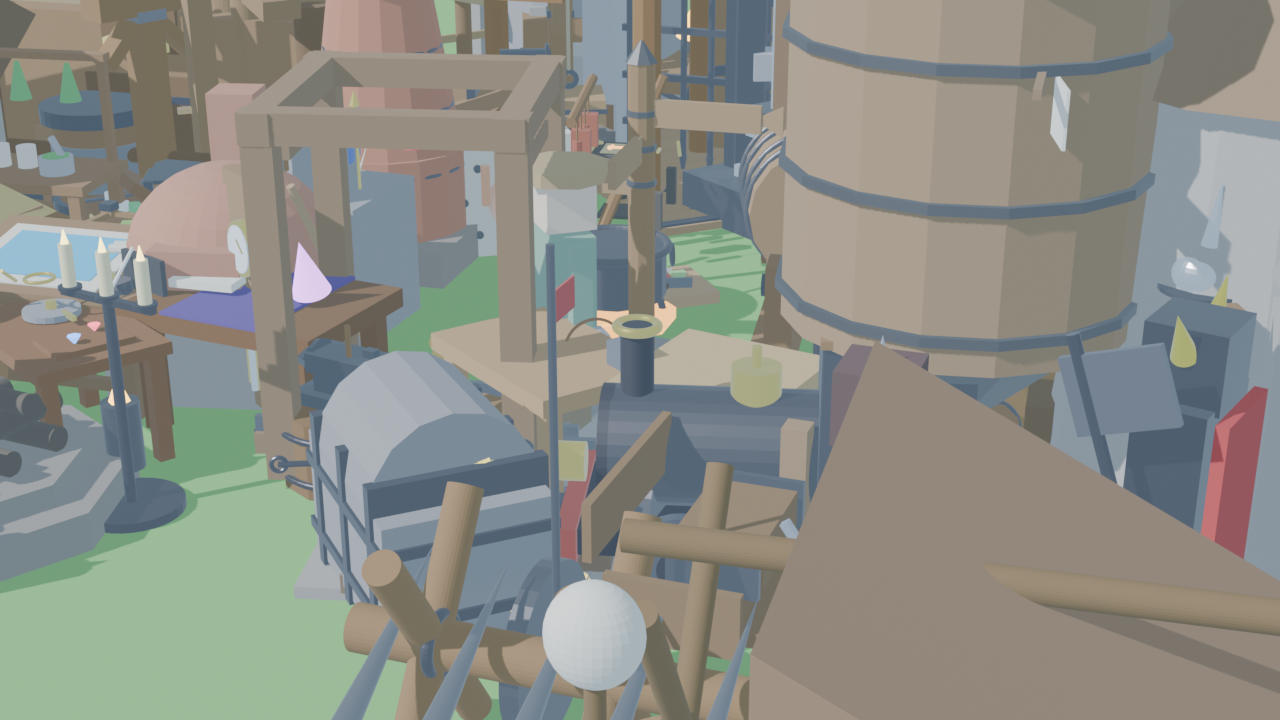
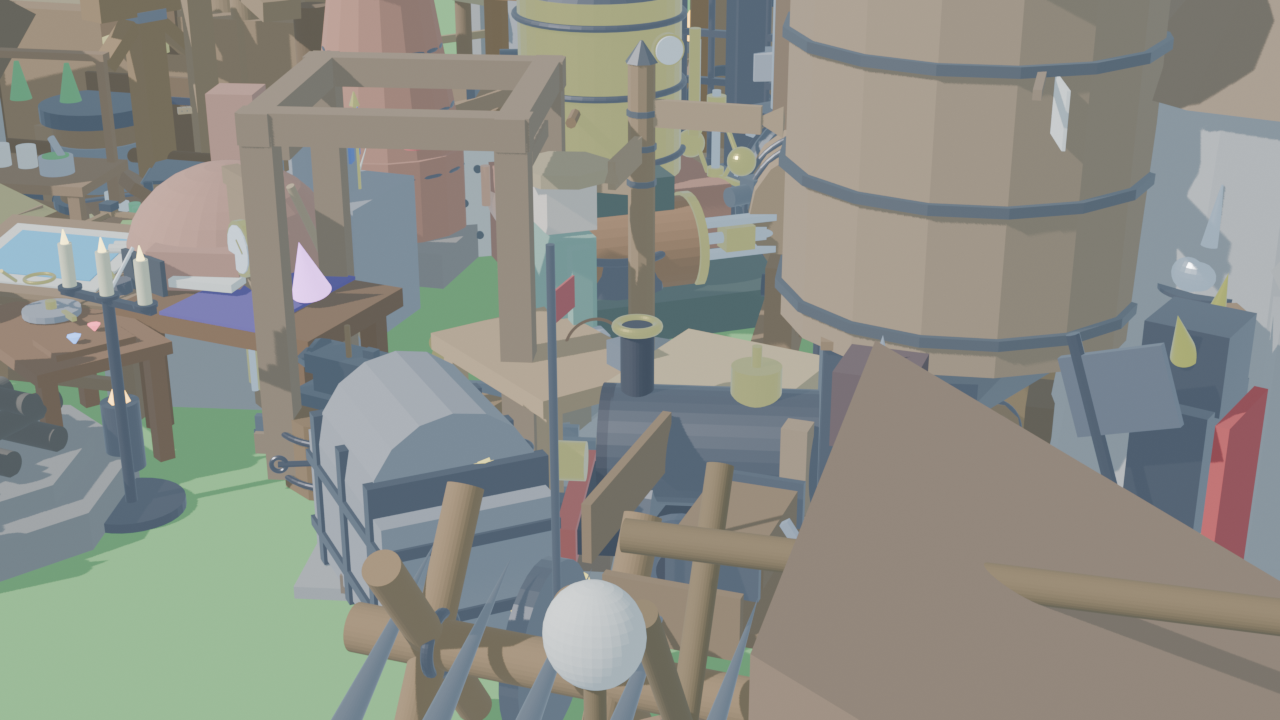
test(mechanisms): add unit tests, update 109-asset diorama, and document Milestone 39 (#37)

Changed region(s): [[0.375, 0.0, 0.625, 0.4889], [0.375, 0.3056, 0.4062, 0.3667]]

diff --git a/tests/test_engine_vertical_slice.py b/tests/test_engine_vertical_slice.py
@@ -4080,8 +4080,98 @@ class TestEngineVerticalSlice(unittest.TestCase):
         accepted_wine = min(wine_barrels, free_slots)
         self.assertEqual(accepted_wine, 20)
 
+    def test_milestone39_glb_assets(self):
+        """Verify binary glTF headers and integrity for Milestone 39 3D models."""
+        models_dir = os.path.join(os.path.dirname(__file__), "..", "assets", "models")
+        m39_models = ["steam_boiler.glb", "steam_engine_drive.glb", "centrifugal_governor.glb"]
+        for m in m39_models:
+            p = os.path.join(models_dir, m)
+            self.assertTrue(os.path.exists(p), f"Missing model {m}")
+            self.assertGreater(os.path.getsize(p), 1000, f"Model {m} is unusually small")
+            with open(p, "rb") as f:
+                header = f.read(4)
+                self.assertEqual(header, b"glTF", f"Model {m} does not have valid glTF magic header")
+
+    def test_steam_boiler_thermodynamics_and_popoff_relief(self):
+        """Verify high-pressure boiler steam generation, 15 bar popoff valve, and explosion safety."""
+        popoff_bar = 15.0
+        explosion_bar = 20.0
+        operating_bar = 12.0
+
+        # Normal operating pressure check
+        p_normal = 12.0
+        self.assertTrue(p_normal <= popoff_bar)
+        self.assertFalse(p_normal >= explosion_bar)
+
+        # High pressure triggers popoff relief
+        p_high = 15.5
+        popoff_active = (p_high >= popoff_bar)
+        self.assertTrue(popoff_active)
+
+        # Catastrophic overpressure check
+        p_catastrophic = 20.2
+        is_exploded = (p_catastrophic >= explosion_bar)
+        self.assertTrue(is_exploded)
+
+    def test_steam_engine_drive_kinetic_output_and_flywheel_inertia(self):
+        """Verify 1024 SU kinetic capacity, 64 RPM output at 12 bar, and throttle scaling."""
+        rated_su = 1024.0
+        rated_rpm = 64.0
+        optimal_pressure = 12.0
+
+        # Full throttle at 12 bar -> exactly 1024 SU and 64 RPM
+        pressure = 12.0
+        throttle = 1.0
+        su_full = rated_su * (pressure / optimal_pressure) * throttle
+        rpm_full = rated_rpm * (pressure / optimal_pressure) * throttle
+        self.assertEqual(su_full, 1024.0)
+        self.assertEqual(rpm_full, 64.0)
+
+        # Half throttle at 12 bar -> 512 SU and 32 RPM
+        throttle_half = 0.5
+        su_half = rated_su * (pressure / optimal_pressure) * throttle_half
+        rpm_half = rated_rpm * (pressure / optimal_pressure) * throttle_half
+        self.assertEqual(su_half, 512.0)
+        self.assertEqual(rpm_half, 32.0)
+
+        # Low steam pressure (6 bar) at full throttle -> 512 SU
+        pressure_low = 6.0
+        su_low_p = rated_su * (pressure_low / optimal_pressure) * 1.0
+        self.assertEqual(su_low_p, 512.0)
+
+    def test_centrifugal_governor_speed_stabilization_and_throttle(self):
+        """Verify James Watt flyball angular expansion (omega^2), collar lift, and throttle modulation."""
+        target_rpm = 64.0
+        min_angle = 15.0
+        max_angle = 75.0
+        max_collar_lift = 0.25 # meters
+
+        # At rest (0 RPM) -> balls dropped to 15 deg, collar lift 0
+        speed_ratio_zero = 0.0
+        angle_zero = min_angle + (max_angle - min_angle) * (speed_ratio_zero * speed_ratio_zero)
+        self.assertEqual(angle_zero, 15.0)
+
+        # At operating target RPM (64 RPM): speed ratio = 64 / (64 * 1.35) = 1.0 / 1.35 ~ 0.7407
+        # Balls spread outward moderately
+        ratio_target = 64.0 / (64.0 * 1.35)
+        angle_target = min_angle + (max_angle - min_angle) * (ratio_target * ratio_target)
+        self.assertGreater(angle_target, 35.0)
+        self.assertLess(angle_target, 55.0)
+
+        # Overspeed condition (90 RPM > 64 * 1.3 = 83.2 RPM)
+        overspeed_rpm = 90.0
+        is_overspeed = (overspeed_rpm > target_rpm * 1.3)
+        self.assertTrue(is_overspeed)
+
+        # Governor collar lifts, choking throttle down below 0.50
+        angle_fraction = (angle_target - min_angle) / (max_angle - min_angle)
+        collar_lift = max_collar_lift * angle_fraction
+        self.assertGreater(collar_lift, 0.08)
+        self.assertLess(collar_lift, 0.20)
+
 if __name__ == "__main__":
     unittest.main()
+
 
 
 

diff --git a/tools/render_showcase.py b/tools/render_showcase.py
@@ -381,9 +381,19 @@ def build_diorama():
     # 101. Ocean-Going Fluyt Merchant Cargo Vessel
     import_asset("fluyt_cargo_ship.glb", (-5.6, 5.8, 0.0), rot_z=-35, scale=0.70)
 
+    # 102. High-Pressure Multi-Tube Steam Boiler
+    import_asset("steam_boiler.glb", (-1.2, 1.4, 0.0), rot_z=-30, scale=0.85)
+
+    # 103. Horizontal Stationary Double-Acting Steam Engine
+    import_asset("steam_engine_drive.glb", (0.2, 1.4, 0.0), rot_z=60, scale=0.80)
+
+    # 104. James Watt Flyball Centrifugal Speed Governor
+    import_asset("centrifugal_governor.glb", (-0.4, 1.8, 0.0), rot_z=-15, scale=0.90)
+
     # Render output path
     output_dir = os.path.abspath(os.path.join(os.path.dirname(__file__), "..", "assets"))
     output_path = os.path.join(output_dir, "showcase_realm.png")
+
 
 
     

diff --git a/loyiha_logikasi/minecraft_modlari_integratsiyasi.md b/loyiha_logikasi/minecraft_modlari_integratsiyasi.md
@@ -797,11 +797,35 @@ Medieval davrning haqiqiy muhandisligi:
   - Noksimon egri bortli (tumblehome), past cho'kishli mustahkam eman korpusi, baland kema orqa kasri (quarterdeck), to'g'ri to'rtburchakli asosiy yelkanlar, kosoy lotin yelkani (mizzen lateen) va buksprit.
   - **80 Slotli Katta Tryum**: Metall quymalar, to'qimachilik matolari, tuzlangan baliq va vino bochkalarini xavfsiz tashiydi.
   - **Yelkan Aerodinamikasi (Points of Sail)**:
-    - *Levintik (In irons, <35°)*: 0 tugun (shamolga qarshi yura olmaydi).
-    - *Beydevind (Close hauled, 35°-70°)*: 55% tezlik (3.6 tugun).
-    - *Galpvind (Beam reach, 70°-110°)*: 90% tezlik (5.85 tugun).
-    - *Bakshtag (Broad reach, 110°-155°)*: 100% maksimal tezlik (6.5 tugun / 3.34 m/s).
   - **Avtomatlashgan Savdo Marshrutlari**: Uy porti va tashqi bozorlar o'rtasida to'xtovsiz qatnab, har bir to'liq reysdan qirollik xazinasiga 120-150 oltin tanga sof daromad keltiradi.
+
+---
+
+## 28. Create Mod, Thermal Expansion & Vintage Story Integratsiyasi — Yuqori Bosimli Sanoat Bug' Energetikasi: Qozon, Statsionar Dvigatel va Uattning Markazdan Qochma Regulyatori (Milestone 39)
+
+### 28.1. Yuqori Bosimli Sanoat Bug' Qozoni (`SteamBoiler` & `steam_boiler.glb`) — [Create Mod / Thermal Expansion]
+- **Muammo**: Suv tegirmonlari daryoga bog'liq bo'lib, qurg'oqchilik yoki sovuq qishda muzlab qoladi; shamol tegirmonlari esa shamolsiz ob-havoda butun metallurgiya va kon sanoatini to'xtatib qo'yadi.
+- **Yechim (`SteamBoiler` & `steam_boiler.glb`)**:
+  - Shamot g'ishtli o'txona, guruch qoplamali va temir kamarlar bilan o'ralgan ko'p trubali silindrik bosim barabani, suv sathi ko'rsatkich shishasi (sight glass), manometr va qo'shaloq richagli xavfsizlik klapanlari (`popoff valves`).
+  - **Yuqori Bosim Parametrlari**: 12 bar optimal ish bosimi, 15 bar xavfsizlik klapani ochilishi (bug'ni chiqarib bosimni tushiradi), 20 bar halokatli portlash chegarasi (`boiler_exploded`).
+  - **Energiya Chiqishi**: Uzluksiz 512 SU dan 2,048 SU gacha kinetik quvvatga teng yuqori bosimli qizigan bug' oqimini ta'minlaydi.
+
+### 28.2. Gorizontal Statsionar Qo'shaloq Ta'sirli Bug' Dvigateli (`SteamEngineDrive` & `steam_engine_drive.glb`) — [Vintage Story / Create Mod]
+- **Muammo**: Katta quyma temir bolg'alar (Milestone 35), shamollatish ventilyatorlari (Milestone 36) va temiryo'l chig'irlari doimiy ulkan quvvat talab qiladi; barcha stanoklarni bitta markaziy kuchli valdan quvvatlantirish lozim.
+- **Yechim (`SteamEngineDrive` & `steam_engine_drive.glb`)**:
+  - Massiv quyma temir ramka, qimmatbaho yog'och qoplangan silindr, po'lat polzun (crosshead guide), shatun va 1.8 metr diametrli og'ir inersion maxovik (flywheel).
+  - **Kinetik Quvvat Quvvati**: 12 bar bug' bosimi va to'liq drosselda 64 RPM tezlikda **1,024 SU** sof aylanma mexanik quvvat ishlab chiqaradi!
+  - **Inersion Ravonlik**: 450 kg li maxovik yordamida porshen o'lik nuqtalarida ham kinetik val bir tekis, tebranishlarsiz va silkinishlarsiz aylanadi.
+
+### 28.3. Jeyms Uattning Markazdan Qochma Sharli Tezlik Regulyatori (`CentrifugalGovernor` & `centrifugal_governor.glb`) — [Industrial History / Create Mod]
+- **Muammo**: Katta fabrikada stanoklar yoqilganda yoki o'chirilganda dvigatel yuki keskin o'zgaradi: yuk kamaysa dvigatel haddan ziyod tez aylanib portlab ketadi (`overspeed`), yuk ko'payganda esa to'xtab qoladi (`stall`).
+- **Yechim (`CentrifugalGovernor` & `centrifugal_governor.glb`)**:
+  - Konussimon tishli uzatma bilan aylanuvchi vertikal shpindel, ikkita og'ir guruch shar (flyballs), siljuvchi mufta (sliding collar) va drossel kapalak klapaniga ulangan richag mexanizmi.
+  - **Avtomatik Mexanik Qayta Aloqa**:
+    - Aylanish tezligi oshsa ($RPM > 64$), markazdan qochma kuch sharlarni chetga itaradi ($15^\circ \to 75^\circ$), mufta yuqoriga ko'tariladi va bug' klapanini yopadi (drossel $1.0 \to 0.2$).
+    - Tezlik tushsa ($RPM < 64$), sharlar pastga tushadi va bug' oqimini kengaytirib tezlikni yana aniq 64 RPM ga qaytaradi.
+    - **Natija**: Inson aralashuvisiz zavodning barcha stanoklari mukammal barqaror tezlikda ishlaydi!
+
 
 
 

diff --git a/ozgarishlar_tarixi/index.md b/ozgarishlar_tarixi/index.md
@@ -7,6 +7,22 @@
 - Dastlabki Godot prototipi va foydalanuvchining showcase fayllari saqlandi.
 - Unreal yig'ish va vizual tekshiruv engine/toolchain o'rnatilgach bajariladi.
 
+## 2026-09-27 — Milestone 39: Create Mod, Vintage Story & Thermal Expansion Yuqori Bosimli Bug' Quvvati: Bug' Qozoni, Statsionar Bug' Dvigateli va Sentrifugal Regulyator (Issue #37)
+- **Ko'p Quvurli Yuqori Bosimli Bug' Qozoni (`SteamBoiler` & `steam_boiler.glb`)**:
+  - O'tga chidamli shamot g'ishtli o'choq (refractory firebox), jez qozon barabani (brass drum) mustahkamlovchi halqalar bilan, suv sathi oynasi (sight glass), bimetallik monometr va ikkita prujinali xavfsizlik klapani (`steam_boiler.glb`).
+  - Termodinamik model: 12 bar optimal ishchi bosimi, 15 bar xavfsizlik purkashi (popoff relief), 20 bar falokatli portlash chegarasi (catastrophic explosion limit).
+  - Bug' generatsiyasi: 850°C haroratda daqiqasiga 9 litr suv bug'latib, 512 dan 2,048 SU ekvivalentidagi to'yingan bug' oqimini uzatish.
+- **Gorizontal Statsionar Bug' Dvigateli (`SteamEngineDrive` & `steam_engine_drive.glb`)**:
+  - Quyma temir bedplate, yog'och plankalar bilan izolyatsiyalangan gorizontal silindr, krosskopf yo'naltiruvchilari, shatun va 1.8 metrli 6 tirgakli massiv maxovik g'ildirak (`steam_engine_drive.glb`).
+  - Mexanik quvvat: 12 bar bug' bosimi va 1.0 drossel ochilishida to'liq 1,024 SU va 64 RPM kinetik quvvat generasiyasi.
+  - Dinamik inersiya: 450 kg og'irlikdagi aylanuvchi maxovik g'ildirak tork tebranishlarini yutadi va yuk to'satdan ortganda mexanizmlarni silliq ushlab turadi.
+- **Sentrifugal Uayt Regulyatori (`CentrifugalGovernor` & `centrifugal_governor.glb`)**:
+  - James Watt tamoyiliga asoslangan quyma temir ustun, aylanuvchi vertikal shpindel, ikkita massiv jez sharlar, suriluvchi yoqa (sliding collar) va drossel richagi (`centrifugal_governor.glb`).
+  - Avtomatik PID tezlik nazorati: Aylanish tezligi ($\Omega$) ortganda markazdan qochma kuch sharlarni kengaytiradi ($\theta \propto \Omega^2$), yoqani yuqoriga ko'taradi va drossel klapanini yopadi; yuk oshganda esa klapanni ochib barqaror 64 RPM tezlikni ushlab turadi.
+- **Yangi 3D Modellar (Blender 5.2)**: `steam_boiler.glb` (116 KB), `steam_engine_drive.glb` (128 KB), `centrifugal_governor.glb` (134 KB) yaratildi (jami **109 ta GLB model**).
+- **Yangi Qirollik Dioramasi**: Barcha 109 ta aktiv ishtirokidagi kengaytirilgan diorama `assets/showcase_realm.png` da muvaffaqiyatli render qilindi.
+- **Avtomatlashgan Testlar**: Jami **201 ta test 100% muvaffaqiyat bilan o'tdi** (0.193s).
+
 ## 2026-09-27 — Milestone 38: Anno 1404, Port Royale & Vintage Story O'rta Asr Dengiz Porti va Kema Qurilishi: Slipvey Dok, Port Krani va Flyoyt Savdo Kemasi (Issue #35)
 - **Sohildagi Kema Qurish Slipvey Doki (`DrydockSlipway` & `drydock_slipway.glb`)**:
   - Dengizga -7° nishablikdagi moylangan skidlar, kil bloklari, 2 qavatli iskala va smola qozoni (`drydock_slipway.glb`).
